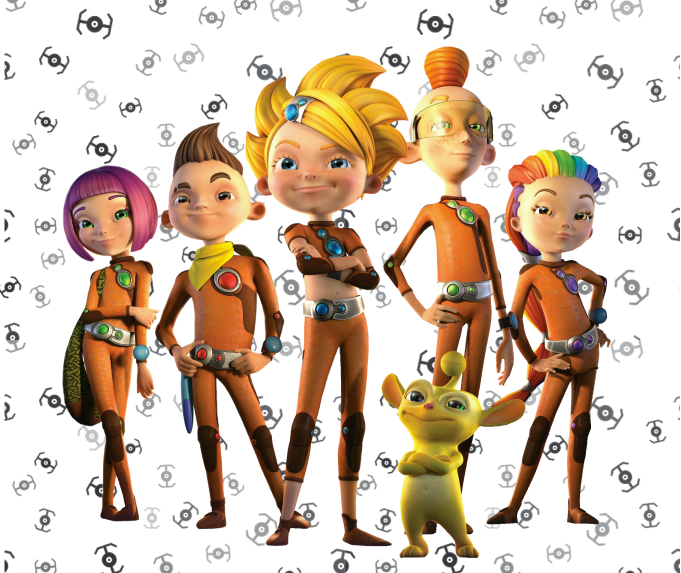
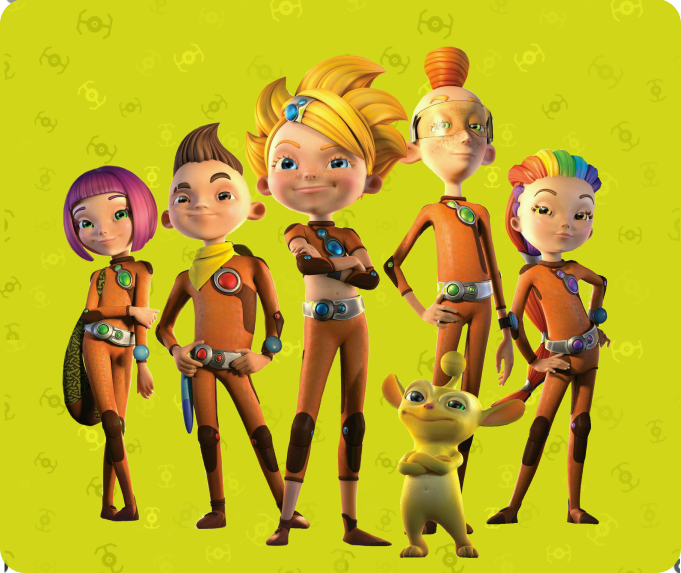
feat: добавляет правки

diff --git a/index.html b/index.html
@@ -4,7 +4,8 @@
 <head>
     <meta charset="UTF-8">
     <meta name="viewport" content="width=device-width, initial-scale=1.0">
-    <meta name="description" content="Это игровое пространство по мотивам мультфильма режиссера Тимура Бекмамбетова">
+    <meta name="description"
+        content="Алиса знает, что делать, центр развлечений - это игровое пространство по мотивам мультфильма режиссера Тимура Бекмамбетова">
     <title>Алиса знает что делать</title>
     <link rel="stylesheet" href="css/swiper-bundle.min.css">
     <link rel="stylesheet" href="css/animate.css">
@@ -80,7 +81,7 @@
                     <div class="grid md:grid-cols-2 gap-5 overflow-hidden">
                         <div class="text-white bg-blue relative p-5 md:p-6 lg:p-24 rounded-3xl">
                             <h2
-                                class="text-lg md:text-3xl lg:text-[67px] lg:leading-none uppercase font-bodyFont font-normal mb-5 wow fadeInUp">
+                                class="text-lg md:text-3xl lg:text-[67px] lg:leading-none uppercase font-bodyFont font-normal mb-5 wow fadeInUp relative z-[1]">
                                 Счастливые
                                 моменты
                                 для&nbsp;детей!
@@ -90,9 +91,9 @@
                                 весельем!</p>
                             <a class="popup-link" href=" #">Записаться</a>
                             <img class="absolute top-0 left-0 w-full block rounded-[40px] hidden md:block"
-                                src="./src/img/hero-1.png" alt="">
+                                src="./src/img/bg/img-5.png" alt="">
                         </div>
-                        <div class="bg-green rounded-3xl">
+                        <div class="bg-green rounded-3xl hero-bg">
                             <img class="rounded-[40px]" src="./src/img/hero-2.png" width="681" height="578"
                                 alt="супер семейка фото">
                         </div>
@@ -165,7 +166,7 @@
                         посещение</h2>
                     <div class="grid md:grid-cols-2 gap-5">
                         <div class="bg-green rounded-3xl py-14 text-center px-4 relative"
-                            style="background-image: url('./src/img/pattern-2.png')">
+                            style="background-image: url('./src/img/bg/img-3.png'); background-position: center; background-size: cover;">
                             <h3 class="text-2xl md:text-4xl text-white font-bodyFont mb-8 md:mb-14 uppercase">Будний
                                 день</h3>
 
@@ -192,7 +193,7 @@
                         </div>
 
                         <div class="bg-blue rounded-3xl py-14 text-center px-4 relative"
-                            style="background-image: url('./src/img/pattern-2.png')">
+                            style="background-image: url('./src/img/bg/img-2.png')">
                             <h3 class="text-2xl md:text-4xl text-white font-bodyFont mb-8 md:mb-6 uppercase">выходной и
                                 <br>
                                 праздничный
@@ -224,8 +225,8 @@
             </section>
 
             <div class="container mb-16 md:mb-36 overflow-hidden wow fadeInUp">
-                <section class="py-5 md:py-11 px-5 md:px-11 rounded-3xl border-solid border-light-blue border-[2px]"
-                    style="background-image: url('./src/img/pattern-3.png'); background-repeat: no-repeat; background-position: right;">
+                <section
+                    class="important py-5 md:py-11 px-5 md:px-11 rounded-3xl border-solid border-light-blue border-[2px]">
                     <h2 class="text-4xl font-bodyFont mb-4">ВАЖНО!</h2>
                     <ul class="list-disc pl-5">
                         <li class="text-lg">Оплата производится по установленным тарифам</li>
@@ -241,7 +242,7 @@
                         помещения</h2>
                     <div class="grid md:grid-cols-2 gap-5">
                         <div class="bg-blue rounded-3xl py-14 text-center px-4 relative"
-                            style="background-image: url('./src/img/pattern-2.png')">
+                            style="background-image: url('./src/img/bg/img-2.png')">
                             <h3 class="text-2xl md:text-4xl text-white font-bodyFont mb-8 md:mb-14 uppercase">Будний
                                 день</h3>
 
@@ -283,7 +284,7 @@
                         </div>
 
                         <div class="bg-green rounded-3xl py-14 text-center px-4 relative"
-                            style="background-image: url('./src/img/pattern-2.png')">
+                            style="background-image: url('./src/img/bg/img-3.png'); background-size: contain;">
                             <h3 class="text-2xl md:text-4xl text-white font-bodyFont mb-8 md:mb-6 uppercase">выходной и
                                 <br>
                                 праздничный день
@@ -330,8 +331,8 @@
             </section>
 
             <div class="container mb-16 md:mb-36 overflow-hidden wow fadeInUp">
-                <section class="py-5 md:py-11 px-5 md:px-11 rounded-3xl border-solid border-light-blue border-[2px]"
-                    style="background-image: url('./src/img/pattern-3.png'); background-repeat: no-repeat; background-position: right;">
+                <section
+                    class="important py-5 md:py-11 px-5 md:px-11 rounded-3xl border-solid border-light-blue border-[2px]">
                     <h2 class="text-4xl font-bodyFont mb-4">ВАЖНО!</h2>
                     <ul class="list-disc pl-5">
                         <li class="text-lg">Оплата производится по установленным тарифам</li>

diff --git a/css/main.css b/css/main.css
@@ -1497,6 +1497,10 @@ body {
   z-index: 10;
 }
 
+.z-\[1\]{
+  z-index: 1;
+}
+
 .m-auto{
   margin: auto;
 }
@@ -1859,7 +1863,7 @@ body {
 .header-call-button{
   display: block;
   width: 11rem;
-  border-radius: 1.5rem;
+  border-radius: 0.75rem;
   border-width: 2px;
   border-style: solid;
   --tw-border-opacity: 1;
@@ -1871,7 +1875,8 @@ body {
   padding-left: 2rem;
   padding-right: 2rem;
   text-align: center;
-  font-weight: 600;
+  font-family: archangelsk, regular;
+  text-transform: uppercase;
   --tw-text-opacity: 1;
   color: rgb(255 255 255 / var(--tw-text-opacity));
   transition-property: all;
@@ -1900,6 +1905,10 @@ body {
   padding-left: 2rem;
   padding-right: 2rem;
   text-align: center;
+  font-family: archangelsk, regular;
+  font-size: 1.5rem;
+  line-height: 2rem;
+  text-transform: uppercase;
   transition-property: all;
   transition-timing-function: cubic-bezier(0.4, 0, 0.2, 1);
   transition-duration: 150ms;
@@ -1942,6 +1951,24 @@ body {
           clip-path: inset(100%);
   clip: rect(0 0 0 0);
   overflow: hidden;
+}
+
+.important {
+  background-image: url('../src/img/pattern-3.png');
+  background-repeat: no-repeat;
+  background-position: right;
+}
+
+@media (max-width: 767px) {
+  .important {
+    background-image: none;
+  }
+}
+
+@media (max-width: 1023px) {
+  .hero-bg img {
+    display: none;
+  }
 }
 
 .hover\:text-blue:hover{

diff --git a/src/input.css b/src/input.css
@@ -24,7 +24,7 @@
     font-weight: normal;
     font-style: normal;
     font-display: swap;
-  }
+}
 
 
 @layer base {
@@ -49,7 +49,7 @@
 /* Директивы классов */
 
 .header-call-button {
-    @apply py-3 px-8 bg-main-black rounded-3xl text-white font-semibold w-44 text-center border-solid border-main-black border-[2px] transition-all block;
+    @apply py-3 px-8 bg-main-black font-bodyFont uppercase rounded-xl text-white w-44 text-center border-solid border-main-black border-[2px] transition-all block;
 }
 
 .header-call-button:hover {
@@ -58,7 +58,7 @@
 }
 
 .popup-link {
-    @apply block py-3 px-8 bg-green rounded-lg text-center border-solid border-green border-[2px] transition-all relative z-[1] hover:bg-transparent;
+    @apply block py-3 text-2xl font-bodyFont uppercase px-8 bg-green rounded-lg text-center border-solid border-green border-[2px] transition-all relative z-[1] hover:bg-transparent;
 }
 
 .nav-link {
@@ -82,4 +82,22 @@
     clip-path: inset(100%);
     clip: rect(0 0 0 0);
     overflow: hidden;
+}
+
+.important {
+    background-image: url('../src/img/pattern-3.png');
+    background-repeat: no-repeat;
+    background-position: right;
+}
+
+@media (max-width: 767px) {
+    .important {
+        background-image: none;
+    }
+}
+
+@media (max-width: 1023px) {
+    .hero-bg img {
+        display: none;
+    }
 }
